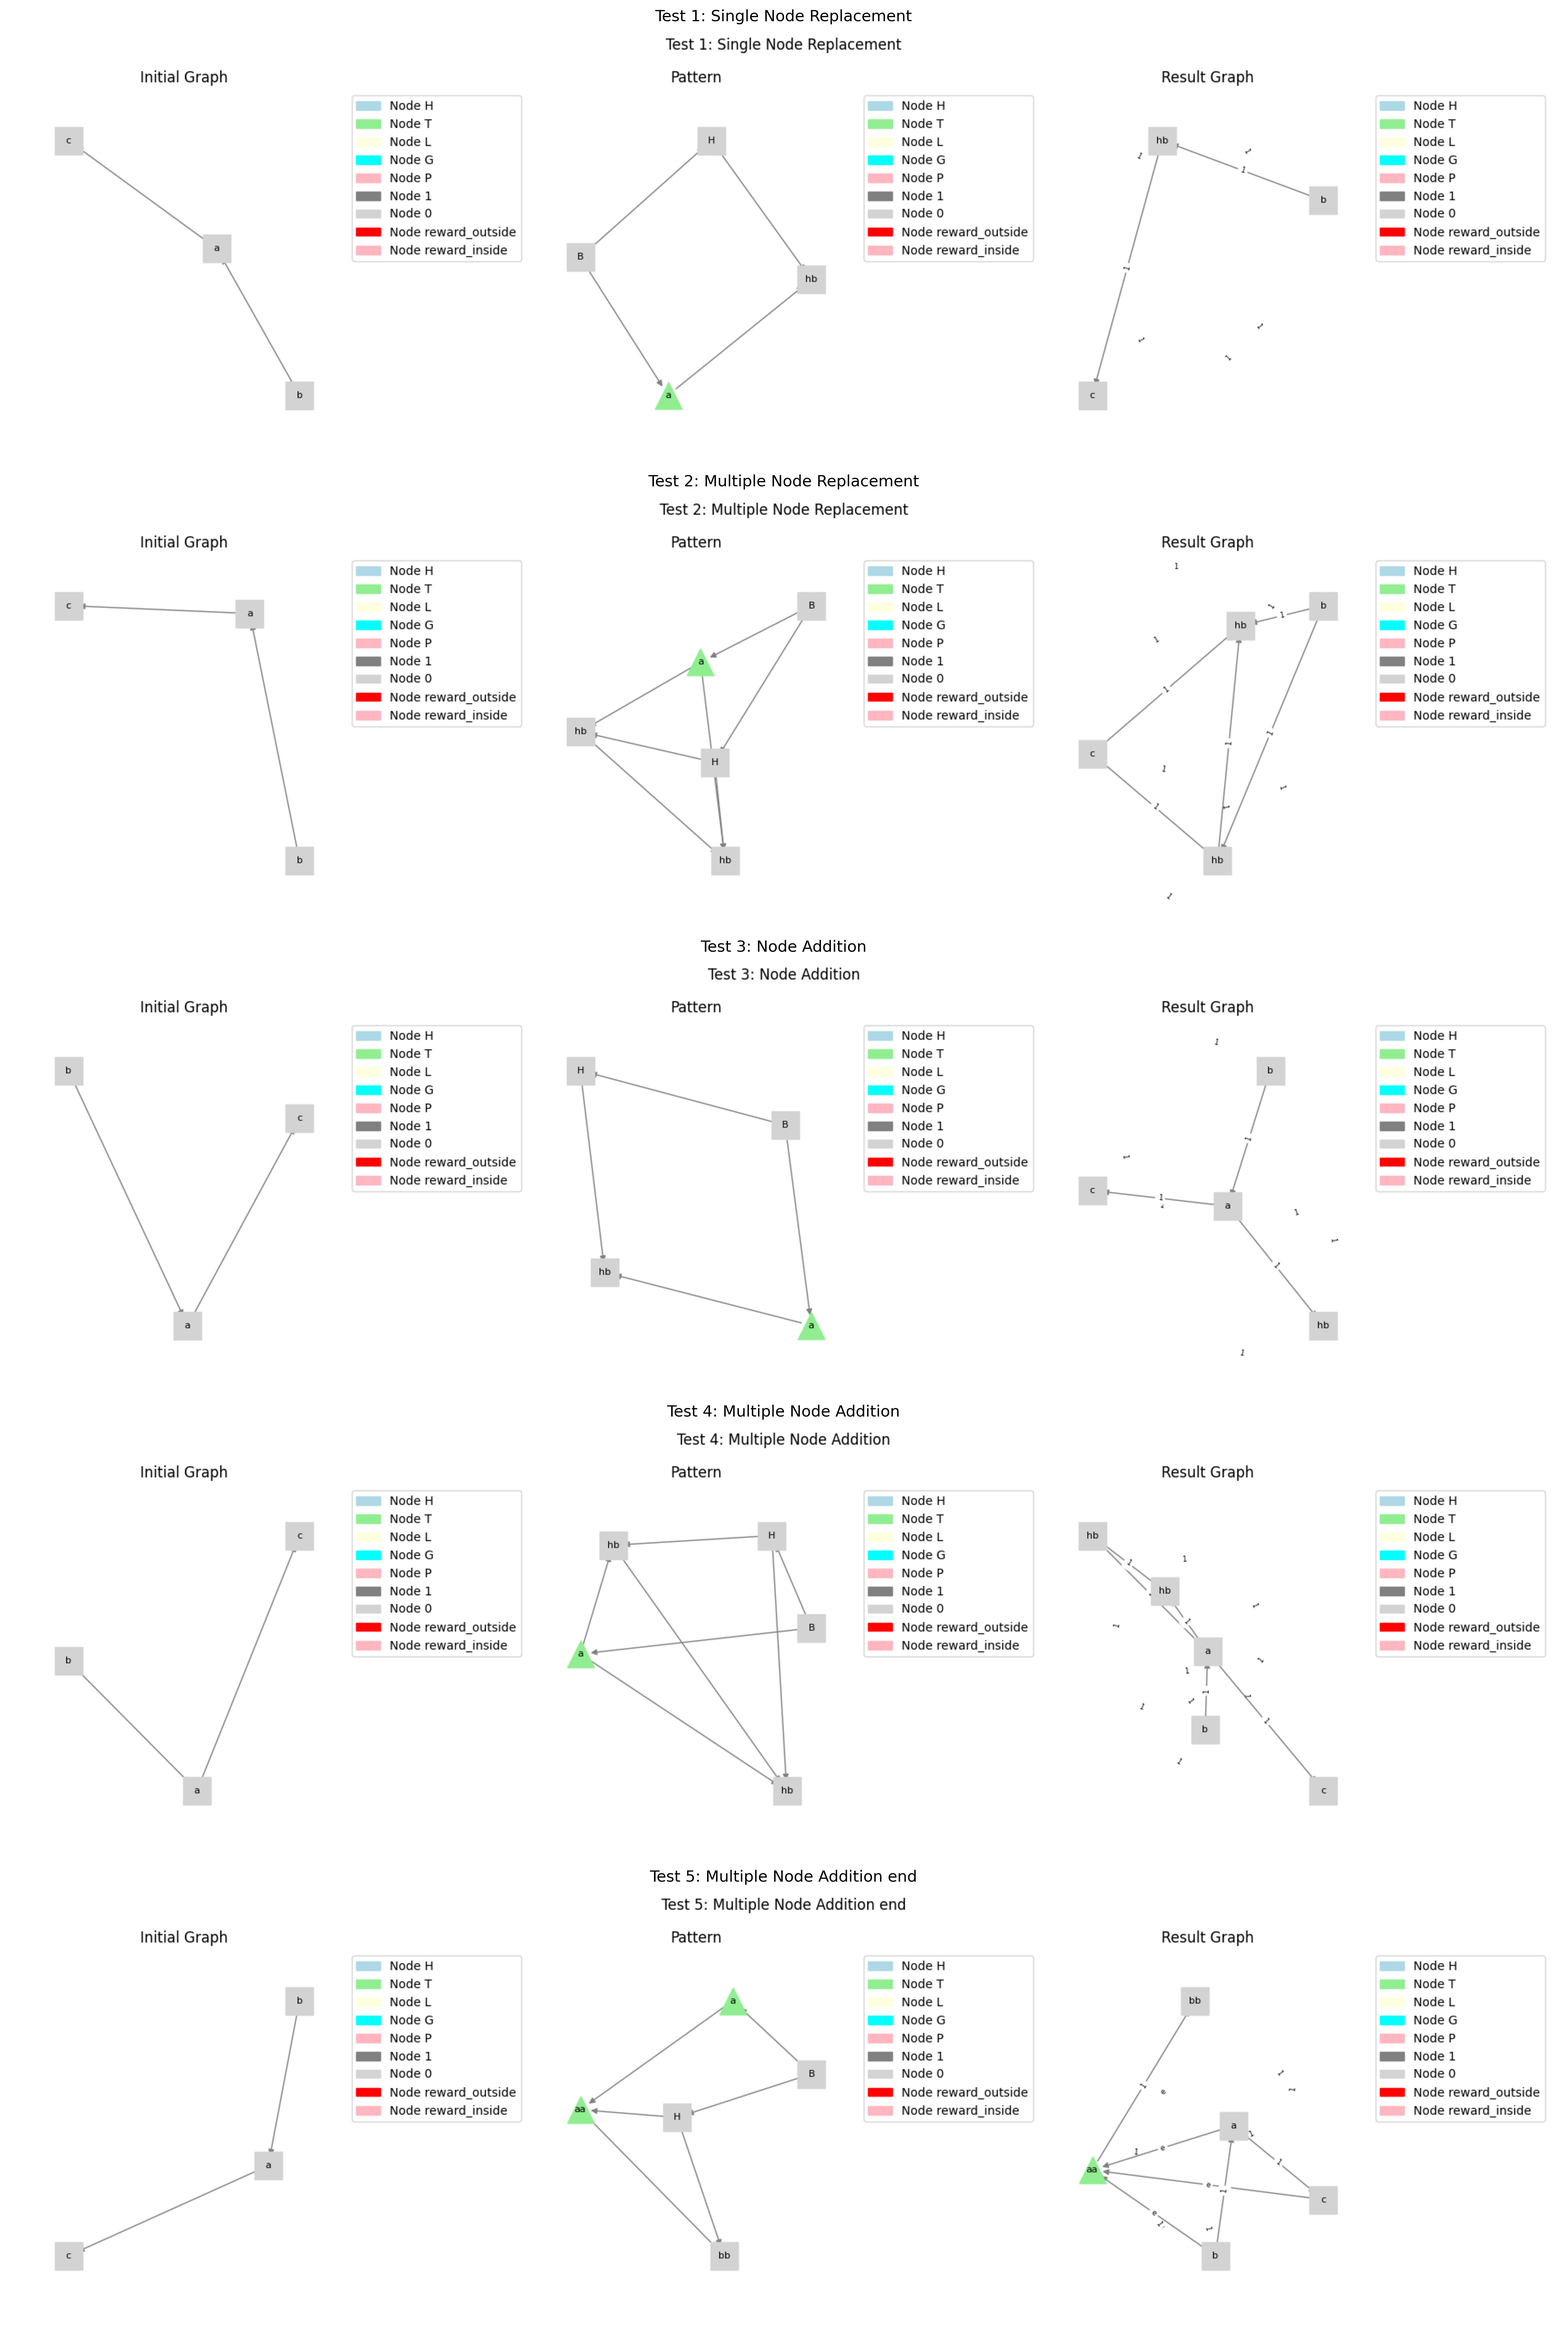
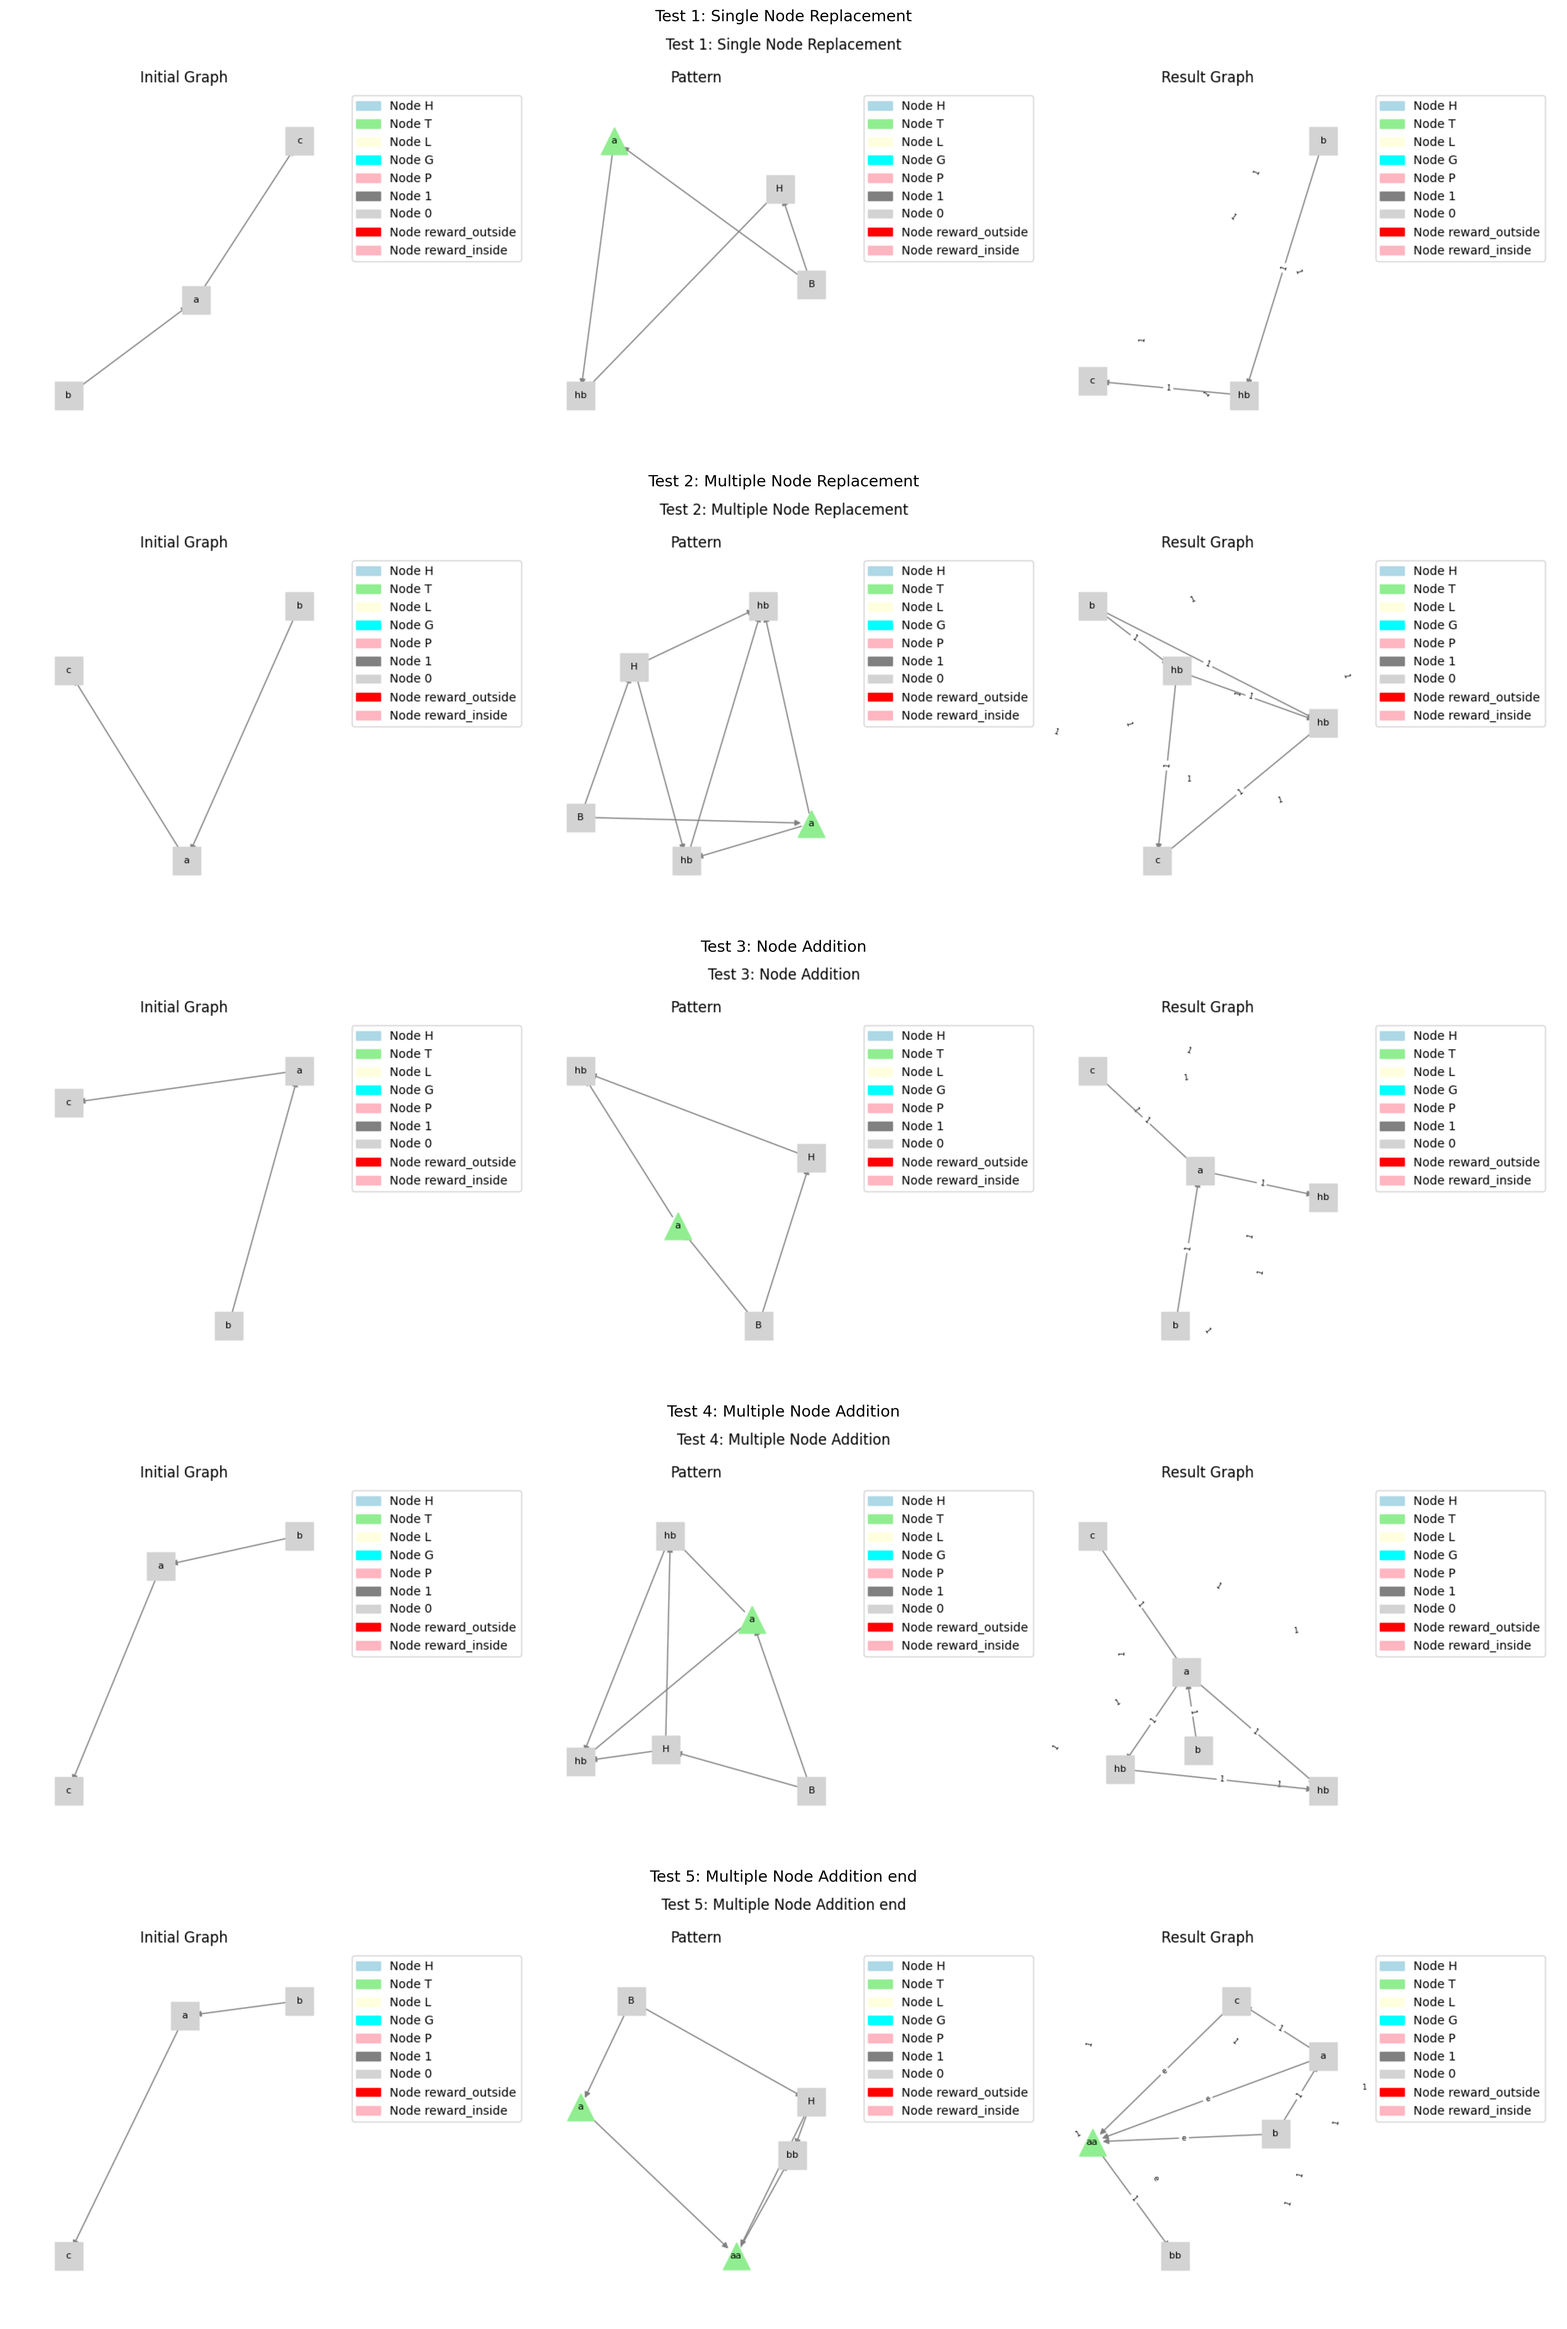
doing transforms half

diff --git a/DS/main.py b/DS/main.py
@@ -17,21 +17,50 @@ GC = GraphCollection(NC=NC)
 
 class Transformation:
     """Class to handle graph transformations with patterns"""
-    
+    # ?? Add visualize with depth, G location of nearest nodes to pattern and transform procecces.
     def __init__(self, pattern):
+        from DS.Space.Matching import edge_none_match, node_none_match
+        from DS.Space.Collections import GraphCollection
         """
         Initialize transformation with a pattern
         
         Args:
             pattern (nx.DiGraph): Pattern graph with base and head
-        """
+        """        
         self.pattern = pattern
-        self.pbase = pattern.graph.get('pbase', None)
-        self.phead = pattern.graph.get('phead', None)
-        self.iB = pattern.graph.get('iB', 'B')
-        self.iH = pattern.graph.get('iH', 'H')
+        self.n_m = node_none_match
+        self.e_m = edge_none_match
+        # self._init_pattern(pattern)
+
+    def _init_pattern(self):
+        """
+        Initialize the pattern
+        """
+        self.pbase = self.pattern.graph.get('pbase', None)
+        self.phead = self.pattern.graph.get('phead', None)
+        self.iB = self.pattern.graph.get('iB', 'B')
+        self.iH = self.pattern.graph.get('iH', 'H')
+
+    def renew_iso(self, iso, reindex_map):
+        new_iso = {}
+        for old, new in iso.items():
+            new_iso[old] = reindex_map[new]
+        return new_iso
         
-    def transform(self, G, visualize=False):
+    
+    def apply_pattern(self, G, iso):
+        """
+        Apply the transformation pattern to graph G
+        """
+        P_copy = self.pattern.copy()
+        P_copy, reindex_map = GC.add_graph_to_collection(P_copy, label=None, is_pattern=True)
+        iso = self.renew_iso(iso, reindex_map)
+        G = nx.relabel_nodes(G, iso, copy=False) # add base instead of Gisonodes      
+
+        
+
+        
+    def transform(self, G, number_of_transformations=1, visualize=False):
         """
         Apply the transformation pattern to graph G
         
@@ -42,13 +71,20 @@ class Transformation:
         Returns:
             nx.DiGraph: Transformed graph
         """
-        G_copy = G.copy()
-        apply_pattern(self.pattern, G)
+        iso = nx.algorithms.isomorphism.DiGraphMatcher(G, self.pbase, node_match=self.n_m, edge_match=self.e_m).subgraph_isomorphisms_iter()
+
+        for iso in list(find_isomorphisms(self.pbase, G))[:number_of_transformations]:
+            self.apply_pattern(G, iso)
+
         
-        if visualize:
-            VisG.visualize_transformation(G_copy, self.pattern, G, "Graph Transformation")
+        
+        # G_copy = G.copy()
+        # apply_pattern(self.pattern, G)
+        
+        # if visualize:
+        #     VisG.visualize_transformation(G_copy, self.pattern, G, "Graph Transformation")
             
-        return G
+        # return G
 
 
 def find_isomorphisms(pattern_base, G, node_match=None, edge_match=None):
@@ -104,7 +140,7 @@ def apply_pattern(pattern, G):
     Apply pattern to G
     """
     # Get the base pattern by getting subgraph around node 'B'
-    pbase = GC.subgraph_with_neighbors(node_list=['B'], G=pattern, depth=1, remove_nodes=['B', 'H'])
+    pbase = pattern.graph['pbase']
     # find L-P
     # print('pbase', pbase.nodes(data=True), pbase.edges(data=True))
     for iso in list(find_isomorphisms(pbase, G)):
@@ -240,8 +276,10 @@ def test_node_addition(graph2=create_test_graph(type='linear'), visualize=False)
 
     # Apply transformation
     graph2_copy = graph2.copy()
-    iso = list(find_isomorphisms(pbase, graph2))[0]
-    replace_by_isomorphism(pattern, graph2, iso)
+    #iso = list(find_isomorphisms(pbase, graph2))[0]
+    #replace_by_isomorphism(pattern, graph2, iso)
+    T = Transformation(pattern)
+    T.transform(graph2)
 
     # Visualize
     if visualize:
@@ -311,18 +349,23 @@ def test_GC():
     G_reindexed, G_reindex_map = GC.add_graph_to_collection(G, label='test', is_pattern=False)
     P_reindexed, P_reindex_map = GC.add_graph_to_collection(pattern, label='test_pattern', is_pattern=True)
     
-    print('\nPattern Base:')
-    print(f"Nodes: {list(P_reindexed.graph['pbase'].nodes(data=True))}")
-    print(f"Edges: {list(P_reindexed.graph['pbase'].edges(data=True))}")
+    assert P_reindexed.nodes(data=True)[P_reindexed.graph['iB']]['type'] == 'base'
+    assert P_reindexed.nodes(data=True)[P_reindexed.graph['iH']]['type'] == 'head'
+    assert len(GC.G.nodes) == len(G.nodes) + len(pattern.nodes)
+    # GC.add_label(G_reindexed, 'test')
+
+    # print('\nPattern Base:')
+    # print(f"Nodes: {list(P_reindexed.graph['pbase'].nodes(data=True))}")
+    # print(f"Edges: {list(P_reindexed.graph['pbase'].edges(data=True))}")
     
-    print('\nPattern Head:')
-    print(f"Nodes: {list(P_reindexed.graph['phead'].nodes(data=True))}")
-    print(f"Edges: {list(P_reindexed.graph['phead'].edges(data=True))}")
-    print(P_reindexed.graph['iB'], P_reindexed.graph['iH'], P_reindexed.nodes(data=True))
+    # print('\nPattern Head:')
+    # print(f"Nodes: {list(P_reindexed.graph['phead'].nodes(data=True))}")
+    # print(f"Edges: {list(P_reindexed.graph['phead'].edges(data=True))}")
+    # print(P_reindexed.graph['iB'], P_reindexed.graph['iH'], P_reindexed.nodes(data=True))
     
-    print('\nGraph:')
-    print(f"Nodes: {list(G_reindexed.nodes(data=True))}")
-    print(f"Edges: {list(G_reindexed.edges(data=True))}")
+    # print('\nGraph:')
+    # print(f"Nodes: {list(G_reindexed.nodes(data=True))}")
+    # print(f"Edges: {list(G_reindexed.edges(data=True))}")
     
     return G_reindexed, P_reindexed
 

diff --git a/DS/Space/Matching.py b/DS/Space/Matching.py
@@ -2,8 +2,6 @@
 # if pass exist (path through edges type)
 # if any in hiararchy
 
-def much_ture_if_none(test_value, default_value):
-    return True if test_value is None else test_value == default_value
 
 
 def nml(self, node1, node2):
@@ -32,19 +30,24 @@ def emlt(self, edge1, edge2):
     return (edge1['type'] == edge2['type'] and 
             edge1['label'] == edge2['label'])
 
-def edge_param_match(self, edge, G=None, elabel=None, etype=None):
-        if G is None:
-            G = self.G
-        if (much_ture_if_none(elabel, G.edges[edge]['label']) 
-            and much_ture_if_none(etype, G.edges[edge]['type'])):
-            return True
-        return False
+
+def much_ture_if_none(test_value, default_value):
+    return True if test_value is None else test_value == default_value
+
+
+def edge_none_match(edge, elabel=None, etype=None):
+    """Edge match by label and type. If None always Match."""
+
+    if (much_ture_if_none(elabel, G.edges[edge]['label']) 
+        and much_ture_if_none(etype, G.edges[edge]['type'])):
+        return True
+    return False
     
 
-def node_param_match(self, node, G=None, label=None, type=None):
-        if G is None:
-            G = self.G
-        if (much_ture_if_none(label, G.nodes[node]['label']) 
-            and much_ture_if_none(type, G.nodes[node]['type'])):
-            return True
-        return False
+def node_none_match(node, label=None, type=None):
+    """Node match by label and type. If None always Match."""
+    
+    if (much_ture_if_none(label, G.nodes[node]['label']) 
+        and much_ture_if_none(type, G.nodes[node]['type'])):
+        return True
+    return False

diff --git a/DS/Space/Collections.py b/DS/Space/Collections.py
@@ -62,7 +62,7 @@ class NodeCollection:
         self.nodes_collection[node_id] = node_data
         
         # Register node properties for quick lookup
-        print(node_data, self.label2nodes)
+        # print(node_data, self.label2nodes)
         for data_name in ['type', 'label']:
             if data_name in node_data:
                 getattr(self, data_name + '2nodes')[node_data[data_name]].append(node_id)
@@ -189,9 +189,10 @@ class GraphCollection:
             self.G.add_edge(graph_id, node, type=EDGE_TYPES['HIERARCHY'], label='')
             
         # Connect to label hierarchy
-        print(self.NC.label2nodes, SINGLETON_TYPES['LABEL'], self.NC.label2nodes[SINGLETON_TYPES['LABEL']])
+        assert len(self.NC.label2nodes[SINGLETON_TYPES['LABEL']]) == 1, f"Label '{label}' has more than one node or not initializ by init graph"
+        # print(self.NC.label2nodes, SINGLETON_TYPES['LABEL'], self.NC.label2nodes[SINGLETON_TYPES['LABEL']])
         self.G.add_edge(
-            self.NC.label2nodes[SINGLETON_TYPES['LABEL'] + '^'][0], 
+            self.NC.label2nodes[SINGLETON_TYPES['LABEL']][0], 
             graph_id, 
             type=EDGE_TYPES['LABEL'], 
             label='l'
@@ -217,7 +218,7 @@ class GraphCollection:
         reindex_map = {old: self.NC.add_new_node(G.nodes[old]) for old in G.nodes()}
         G_reindexed = nx.relabel_nodes(G, reindex_map)
         self.G.update(G_reindexed)
-        # self.add_label(G_reindexed, label)
+        #self.add_label(G_reindexed, label)
         if is_pattern:
             G_reindexed = self.reindex_pattern(G_reindexed, reindex_map)
         return G_reindexed, reindex_map
